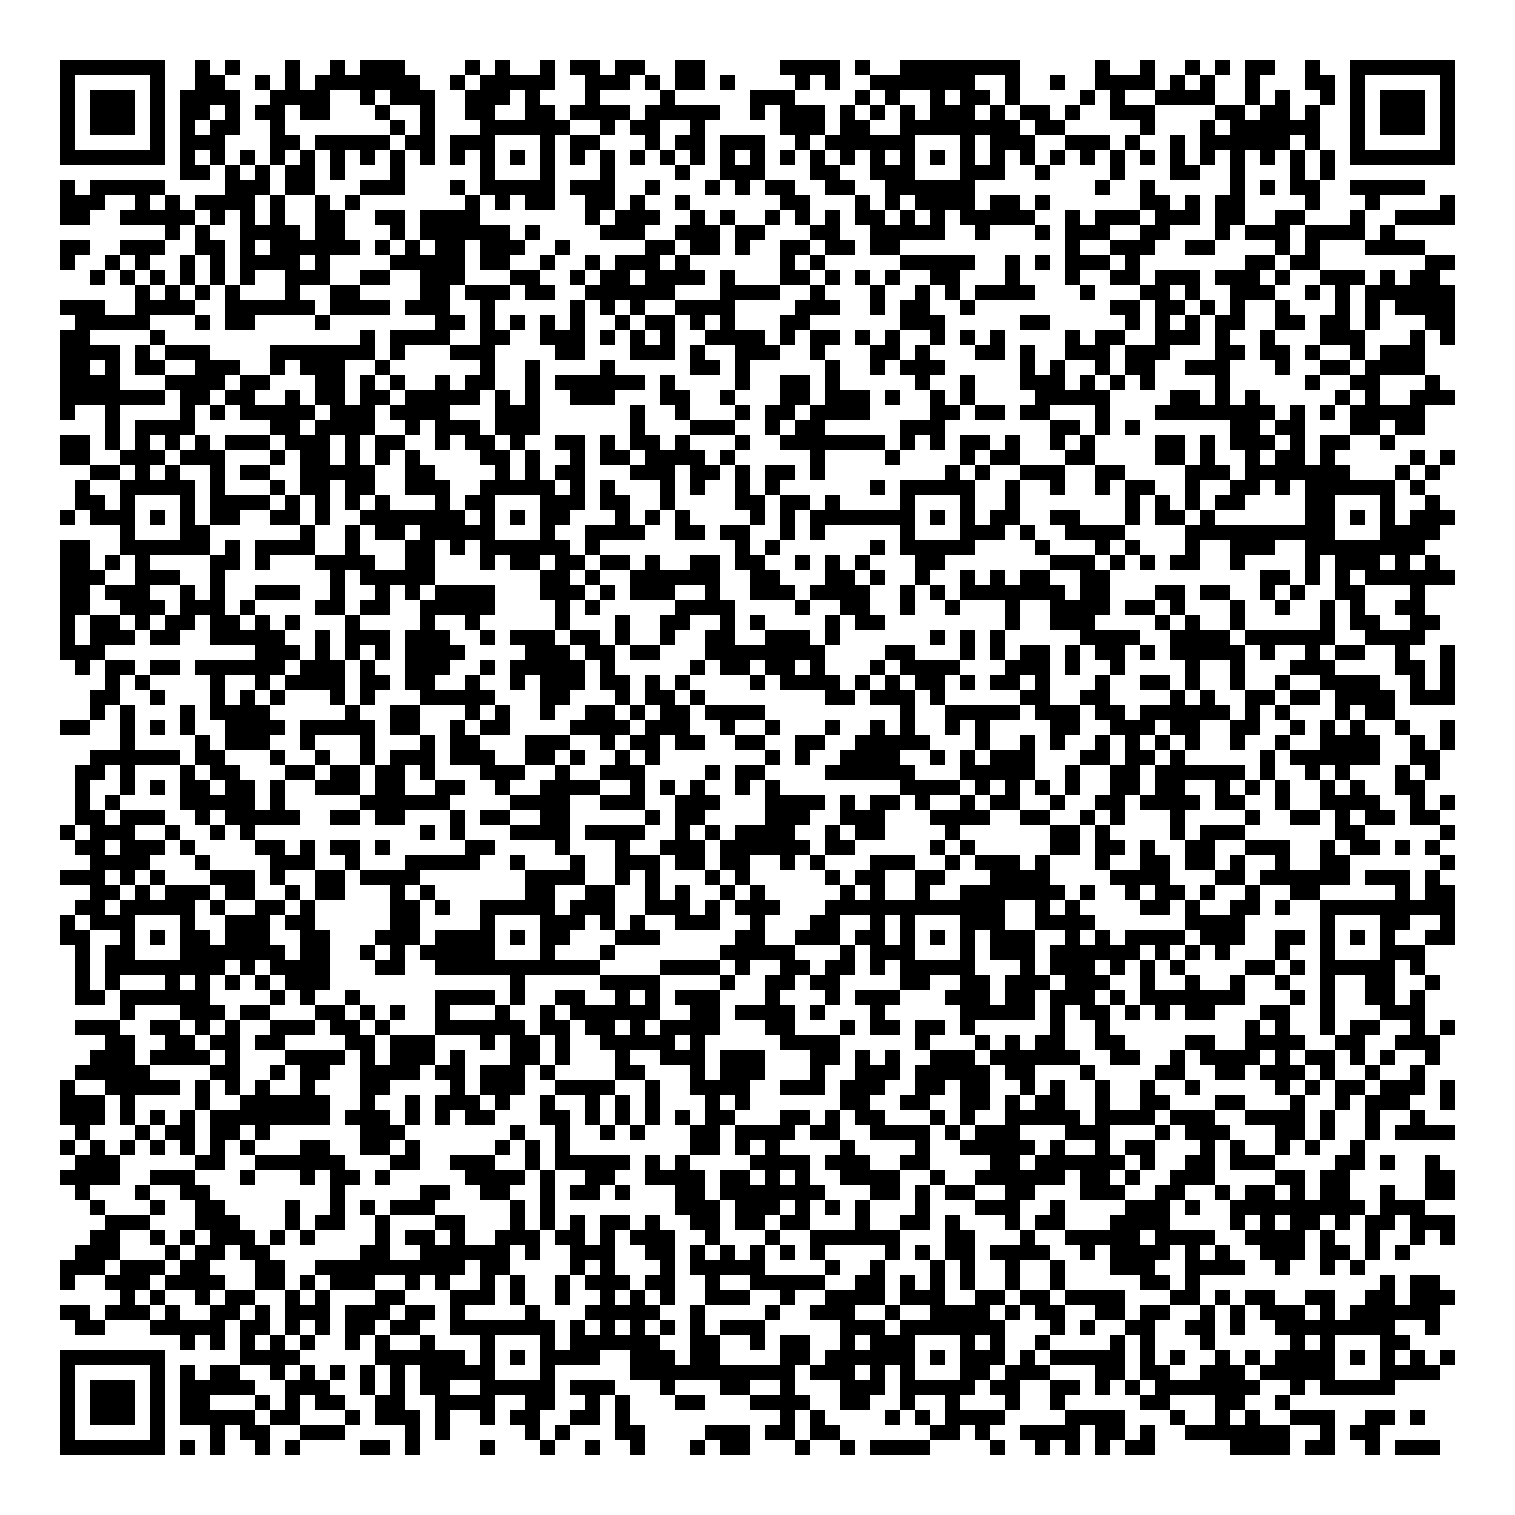
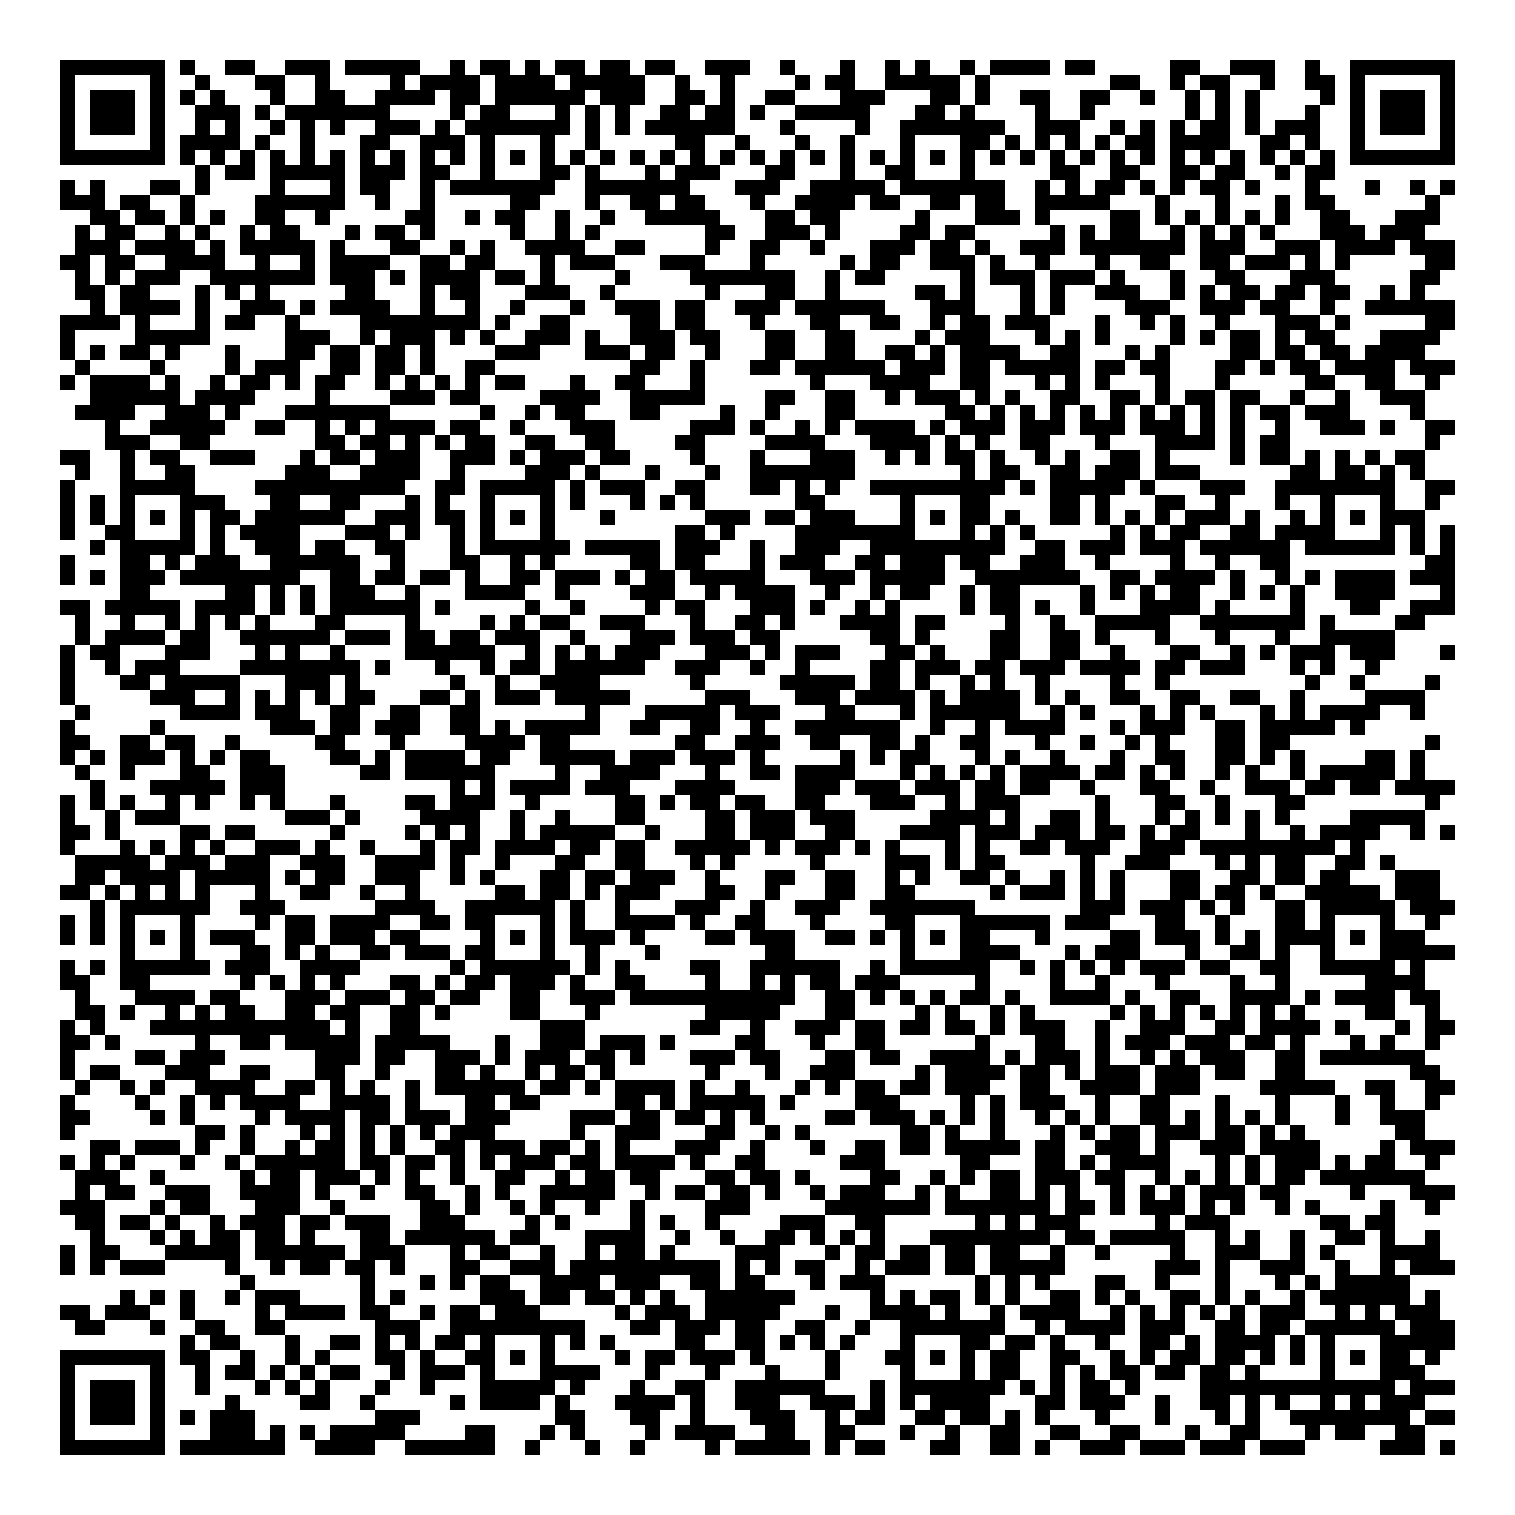
Added a line with the document number

diff --git a/file_kv.py b/file_kv.py
@@ -38,7 +38,7 @@ ScreenManager:
 
                 MDTopAppBar:
                     id: toolbar
-                    title: "Форма 100"
+                    title: "Форма 50"
                     elevation: 4
                     pos_hint: {"top": 1}
                     md_bg_color: "#e7e4c0"
@@ -72,7 +72,7 @@ ScreenManager:
                 MDNavigationDrawerHeader:
                     title: "Меню"
                     title_color: "#BF3030"
-                    text: "Форма 100"
+                    text: "Форма 50"
                     spacing: "4dp"
                     padding: "12dp", 0, 0, "56dp"
 
@@ -80,6 +80,7 @@ ScreenManager:
                     icon: "hospital"
                     text_right_color: "#4a4939"
                     text: "Заполнение карты пациента"
+                    # on_press: root.counter()
                     on_release: root.manager.current = 'second'
 
                 DrawerClickableItem:
@@ -118,6 +119,7 @@ ScreenManager:
     evacuation_queue: evacuation_queue
     where_delivered: where_delivered
     evacuation_method: evacuation_method
+    document_number: document_number
 
     MDBoxLayout:
         adaptive_size: False
@@ -137,6 +139,14 @@ ScreenManager:
             pos_hint: {'center_y': .5}
 
             MDList:
+                MDTextField:
+                    id: document_number
+                    hint_text: "Номер документа"
+                    helper_text: "Выбрать из выпадающего списка"
+                    helper_text_mode: "on_focus"
+                    line_color_focus: "red"
+                    on_focus: if self.focus: root.document_number_tap()
+
                 MDTextField:
                     id: surname
                     hint_text: "Ф.И.О"

diff --git a/main.py b/main.py
@@ -14,7 +14,6 @@ from button_press.button_on_click import on_click
 from config.send_qr_date import qrcode_to_db_
 from create_qrcode.read_qrocde import on_symbols_
 
-
 from dropdown_modul.floor_menu import floor_mod
 from dropdown_modul.affiliation_menu import affiliation_menu_mod
 from dropdown_modul.military_rank_menu import military_rank_mod
@@ -26,6 +25,7 @@ from dropdown_modul.evacuation_menu import evacuation_mod
 from dropdown_modul.evacuation_queue_menu import evacuation_queue_mod
 from dropdown_modul.where_delivered_menu import where_delivered_mod
 from dropdown_modul.evacuation_method_menu import evacuation_method_mod
+from dropdown_modul.counter_menu import counter_mod
 from file_kv import KV
 
 
@@ -71,6 +71,14 @@ class FirstScreen(Screen):
 
 class SecondScreen(Screen):
     """ Второй экран приложения"""
+
+    def document_number_tap(self):
+        return counter_mod(self)
+
+    def set_document_number_item(self, text__item):
+        """Метод для закрытия выпадающего меню"""
+        self.ids.document_number.text = text__item
+        self.menu.dismiss()
 
     def patients_gender(self):
         """Пол пациента"""

diff --git a/config/send_qr_date.py b/config/send_qr_date.py
@@ -17,12 +17,15 @@ def qrcode_to_db_(self):
         if self.decode_date is not None:
             file = open('static_fiels/data_of_qrcode.csv')
             contents = csv.reader(file)
-            insert_records = """INSERT INTO wounded_fighter(name,
-                number_token_fighter, number_part,
-                date, identified_injuries, medical_care_provided,
-                                sanitary_treatment, diagnosis,
-                                priority, medic_data)
-                                VALUES (?, ?, ?, ?, ?, ?, ?, ?, ?, ?)"""
+            insert_records = """INSERT INTO medical_db(number_docs, surname,
+                age,
+                floor, affiliation, rank, military_unit, reason,
+                diagnosis, voluntary_consent, first_aid, medical,
+                evacuation,
+                evacuation_queue, evacuation_method, where_delivered,
+                name_doctor, datetime)
+                                VALUES (?, ?, ?, ?, ?, ?, ?, ?, ?, ?, ?, ?,
+                                ?, ?, ?, ?, ?, ?)"""
             c.executemany(insert_records, contents)
             conn.commit()
             conn.close()

diff --git a/dropdown_modul/counter_menu.py b/dropdown_modul/counter_menu.py
@@ -1,0 +1,35 @@
+from kivymd.uix.menu import MDDropdownMenu
+from kivy.metrics import dp
+# import csv
+import sqlite3
+
+
+def counter_mod(self):
+    conn = sqlite3.connect('database/medical_person.db')
+    c = conn.cursor()
+    # c.execute("""SELECT number_docs FROM medical_db DESC LIMIT 1""")
+    c.execute("""SELECT number_docs FROM
+              medical_db ORDER BY rowid DESC LIMIT 1""")
+    records = c.fetchall()
+    number_docs_counter = ''
+    for item in records:
+        number_docs_counter = item
+
+    self.menu_list = [
+        {
+            "viewclass": "OneLineListItem",
+            "height": dp(56),
+            "text": f"{number_docs_counter[0] + 1}",
+            "on_release":
+                lambda x=f"{number_docs_counter[0] + 1}":
+                    self.set_document_number_item(x),
+        },
+        ]
+
+    self.menu = MDDropdownMenu(
+        caller=self.ids.document_number,
+        items=self.menu_list,
+        position="bottom",
+        width_mult=4
+    )
+    self.menu.open()

diff --git a/button_press/button_on_click.py b/button_press/button_on_click.py
@@ -5,13 +5,15 @@ import loguru
 def on_click(self):  # Метод действие кнопки
     conn = sqlite3.connect('database/medical_person.db')
     c = conn.cursor()
-    c.execute("""INSERT INTO medical_db VALUES (:id , :surname, :age,
+    c.execute("""INSERT INTO medical_db VALUES (:id , :number_docs, :surname,
+                :age,
                 :floor, :affiliation, :rank, :military_unit, :reason,
                 :diagnosis, :voluntary_consent, :first_aid, :medical,
                 :evacuation,
                 :evacuation_queue, :evacuation_method, :where_delivered,
                 :name_doctor, :date)""", {
                 'id': None,
+                'number_docs': self.ids.document_number.text,
                 'surname': self.ids.surname.text,
                 'age': self.ids.age.text,
                 'floor': self.ids.floor.text,

diff --git a/create_qrcode/qrcode_make.py b/create_qrcode/qrcode_make.py
@@ -8,7 +8,7 @@ def make_qrcode():
 
     conn = sqlite3.connect('database/medical_person.db')
     c = conn.cursor()
-    c.execute("""SELECT surname, age,
+    c.execute("""SELECT number_docs, surname, age,
                 floor, affiliation, rank, military_unit, reason,
                 diagnosis, voluntary_consent, first_aid, medical,
                 evacuation,
@@ -23,8 +23,6 @@ def make_qrcode():
         writer = csv.writer(the_file, dialect="custom")
         writer.writerow(records[0])
         writer.writerow(records[1])
-        # writer.writerow(records[2])
-        # writer.writerow(records[3])
 
     with open("static_fiels/data_of_wounded.csv") as f:
         date = f.read()
